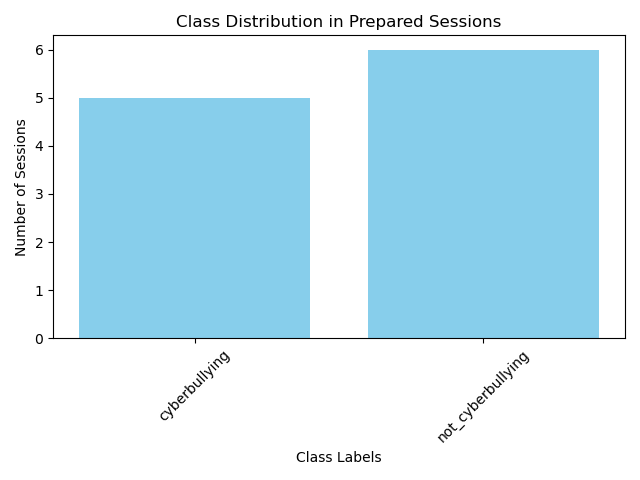
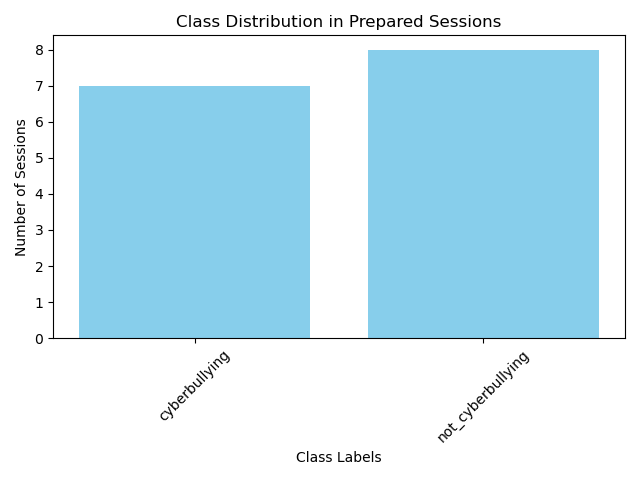
io funziono (il coverage report meno)

Changed region(s): [[0.125, 0.1562, 0.5, 0.2188], [0.0625, 0.4688, 0.0938, 0.5]]

diff --git a/segregation_system/segregation_orchestrator.py b/segregation_system/segregation_orchestrator.py
@@ -44,102 +44,83 @@ class SegregationSystemOrchestrator:
             min_num = SegregationSystemConfiguration.LOCAL_PARAMETERS['min_sessions_for_processing']
 
             while True:
-                # Receive a prepared session from the preparation system.
                 message = self.message_broker.get_last_message()
-
-                # Convert the string into a dict object.
-
-                # message = SegregationSystemJsonHandler.string_to_dict(message['message'])
                 message = message['message']
 
-                # Validation of the prepared session.
                 if SegregationSystemJsonHandler.validate_json(message, "segregation_system/schemas/prepared_session_schema.json"):
                     print("Prepared Session Valid!")
                     try:
-                        # message = SegregationSystemJsonHandler.string_to_dict(message)
                         new_prepared_session = PreparedSession(message)
-                        print(new_prepared_session)
                         self.db.store_prepared_session(new_prepared_session)
                         number_of_collected_sessions = self.db.get_number_of_sessions_stored()
                         print("Prepared Session STORED! [", number_of_collected_sessions, "].")
 
                         if number_of_collected_sessions >= min_num:
-                            # if the number of session stored is a mul of the minimum, then stop the cycle.
+                            print(number_of_collected_sessions, min_num)
                             break
 
                     except Exception as e:
-                        # If the prepared session is not valid, just ignore it.
-                        # In case of any database error, just ignore it.
                         raise e
-                        continue
 
             print("Enough prepared session stored!")
             enough_collected_sessions = "OK"
-
-            # The minimum number of prepared session has been reached!
             SegregationSystemJsonHandler.write_field_to_json(execution_state_file_path, "enough_collected_sessions", "OK")
 
-            # Get all the prepared sessions in the database.
             all_prepared_sessions = self.db.get_all_prepared_sessions()
 
             print("Generating the balancing report...")
-            balancing_report_model = BalancingReportModel.generate_balancing_report(all_prepared_sessions)  # Generate the Balancing Report.
+            balancing_report_model = BalancingReportModel.generate_balancing_report(all_prepared_sessions) 
+            BalancingReportView.show_balancing_report(balancing_report_model, "plots")  
             print("Balancing report generated!")
-            BalancingReportView.show_balancing_report(balancing_report_model, "plots")  # Show the balancing report to the user.
 
-            if self.get_testing():
-                # Simulating the user response...
+
+            if self.get_testing():      # Simulating the user response...
                 if balancing_report_model.is_balanced and balancing_report_model.is_minimum:
                     SegregationSystemJsonHandler.write_field_to_json(execution_state_file_path, "balancing_report", "OK")
+                    balancing_report_status = "OK"
                 else:
                     SegregationSystemJsonHandler.write_field_to_json(execution_state_file_path, "balancing_report", "NOT OK")
+                    balancing_report_status = "NOT OK"
                     # self.message_broker.send_configuration("unbalanced_classes")
-                    print("unbalanced classes")
                     self.reset_execution_state() 
                     return
                 
                 print("Generating the coverage report...")
                 coverage_report_model = CoverageReportModel.generate_coverage_report(all_prepared_sessions) 
-                print("Coverage report generated!")
                 # CoverageReportView.show_coverage_report(coverage_report_model, "plots")  
+                print("Coverage report generated!")
 
                 if randrange(1) == 0:
                     SegregationSystemJsonHandler.write_field_to_json(execution_state_file_path, "coverage_report", "OK")
+                    coverage_report_status = "OK"
                 else:
                     SegregationSystemJsonHandler.write_field_to_json(execution_state_file_path, "coverage_report", "NOT OK")
                     # self.message_broker.send_configuration("features_not_covered")
-                    print("features not covered")
+                    coverage_report_status = "NOT OK"
                     self.reset_execution_state()
                     return
             else:
-                return
-
-        if not self.get_testing():
-            if  coverage_report_status == "-" and balancing_report_status == "NOT OK" and enough_collected_sessions == "OK":
-                # self.message_broker.send_configuration("unbalanced_classes")
-                print("unbalanced classes")
-                self.reset_execution_state() 
-                return
+                if  coverage_report_status == "-" and balancing_report_status == "NOT OK" and enough_collected_sessions == "OK":
+                    # self.message_broker.send_configuration("unbalanced_classes")
+                    self.reset_execution_state() 
+                    return
+            
 
         if (coverage_report_status == "-" and balancing_report_status == "OK" and enough_collected_sessions == "OK"):
-            # In this phase we must generate the input coverage report and ask the user response.
-            # Get all the prepared sessions in the database.
             all_prepared_sessions = self.db.get_all_prepared_sessions()
 
             print("Generating the input coverage report...")
             coverage_report_model = CoverageReportModel.generate_coverage_report(all_prepared_sessions) 
-            print("Input coverage report generated!")
             CoverageReportView.show_coverage_report(coverage_report_model, "plots")  
-
+            print("Coverage report generated!")
             return
 
         if not self.get_testing():
             if  coverage_report_status == "NOT OK" and balancing_report_status == "OK" and enough_collected_sessions == "OK":
                 # self.message_broker.send_configuration("coverage_not_satisfied")
-                print("features not covered")
                 self.reset_execution_state()  
                 return
-
+            
         if (coverage_report_status == "OK" and balancing_report_status == "OK" and enough_collected_sessions == "OK"):
             # In this phase we must generate the learning sets according to the configuration and then send it to the Development system.
             # Get all the prepared sessions in the database.
@@ -154,6 +135,7 @@ class SegregationSystemOrchestrator:
 
             self.message_broker.send_message(network_info['ip'], network_info['port'],
                                              SegregationSystemJsonHandler.dict_to_string(learning_sets.to_dict()))
+            print("Learning sets sent to the Development System!")
             self.db.remove_all_prepared_sessions() 
             self.reset_execution_state() 
 

diff --git a/segregation_system/learning_set.py b/segregation_system/learning_set.py
@@ -43,9 +43,9 @@ class LearningSet:
 
     def to_dict(self) -> dict:
         return {
-            "training_set": [session.to_dictionary() for session in self._training_set],
-            "validation_set": [session.to_dictionary() for session in self._validation_set],
-            "test_set": [session.to_dictionary() for session in self._test_set],
+            "training_set": [session for session in self._training_set],
+            "validation_set": [session for session in self._validation_set],
+            "test_set": [session for session in self._test_set],
         }
 
     @classmethod
@@ -54,7 +54,7 @@ class LearningSet:
             raise ValueError("Input data must be a dictionary.")
 
         return cls(
-            training_set=[PreparedSession.from_dictionary(session) for session in data["training_set"]],
-            validation_set=[PreparedSession.from_dictionary(session) for session in data["validation_set"]],
-            test_set=[PreparedSession.from_dictionary(session) for session in data["test_set"]],
+            training_set=[PreparedSession(session) for session in data["training_set"]],
+            validation_set=[PreparedSession(session) for session in data["validation_set"]],
+            test_set=[PreparedSession(session) for session in data["test_set"]],
         )

diff --git a/segregation_system/balancing_report/balancing_report_view.py b/segregation_system/balancing_report/balancing_report_view.py
@@ -25,3 +25,4 @@ class BalancingReportView:
         # plt.show()
         plt_path = "segregation_system/" + workspace_dir + '/balancing_report.png'
         plt.savefig(plt_path)
+        return

diff --git a/segregation_system/coverage_report/coverage_report_view.py b/segregation_system/coverage_report/coverage_report_view.py
@@ -232,3 +232,4 @@ class CoverageReportView:
         # plt.show()
         plt_path = "segregation_system/" + workspace_dir + '/coverage_report.png'
         plt.savefig(plt_path)
+        return
